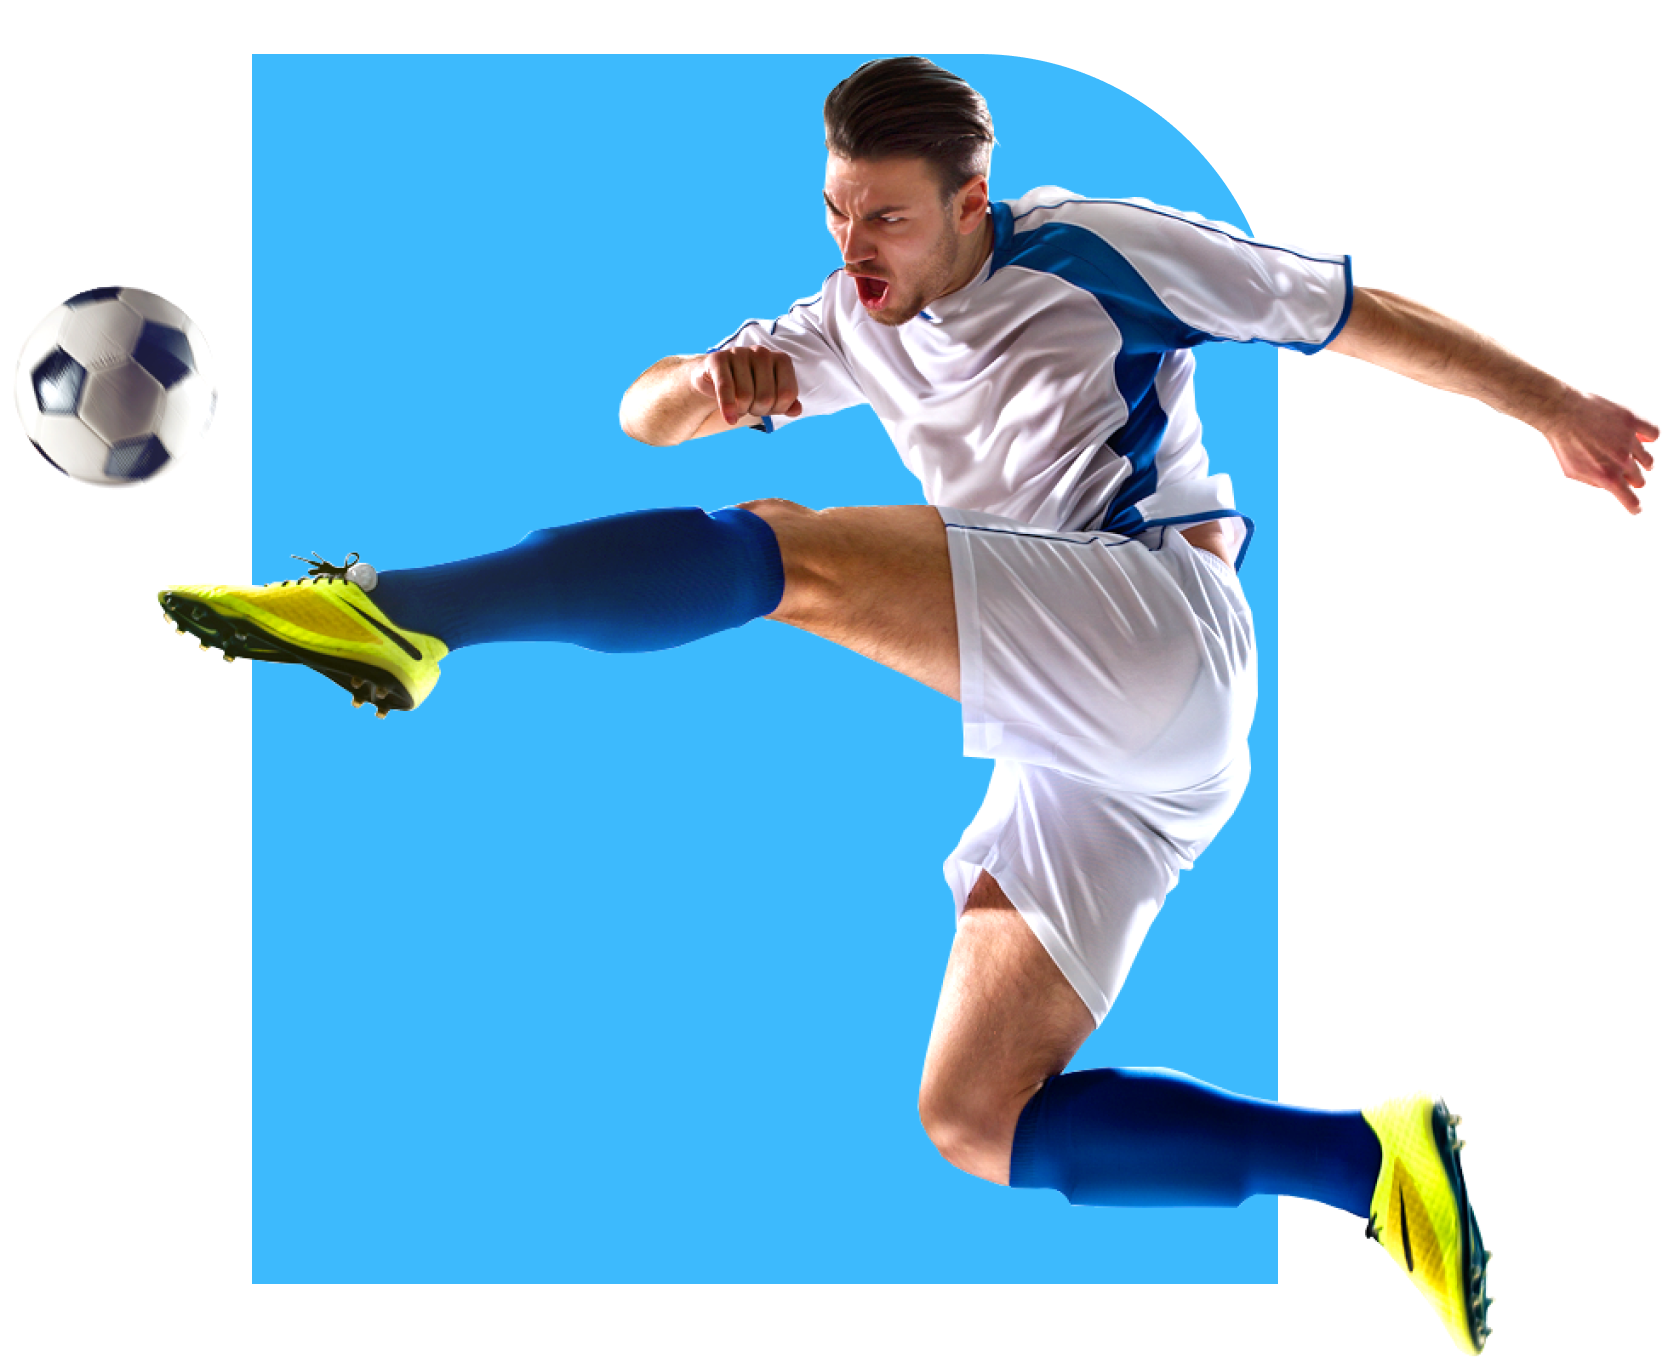
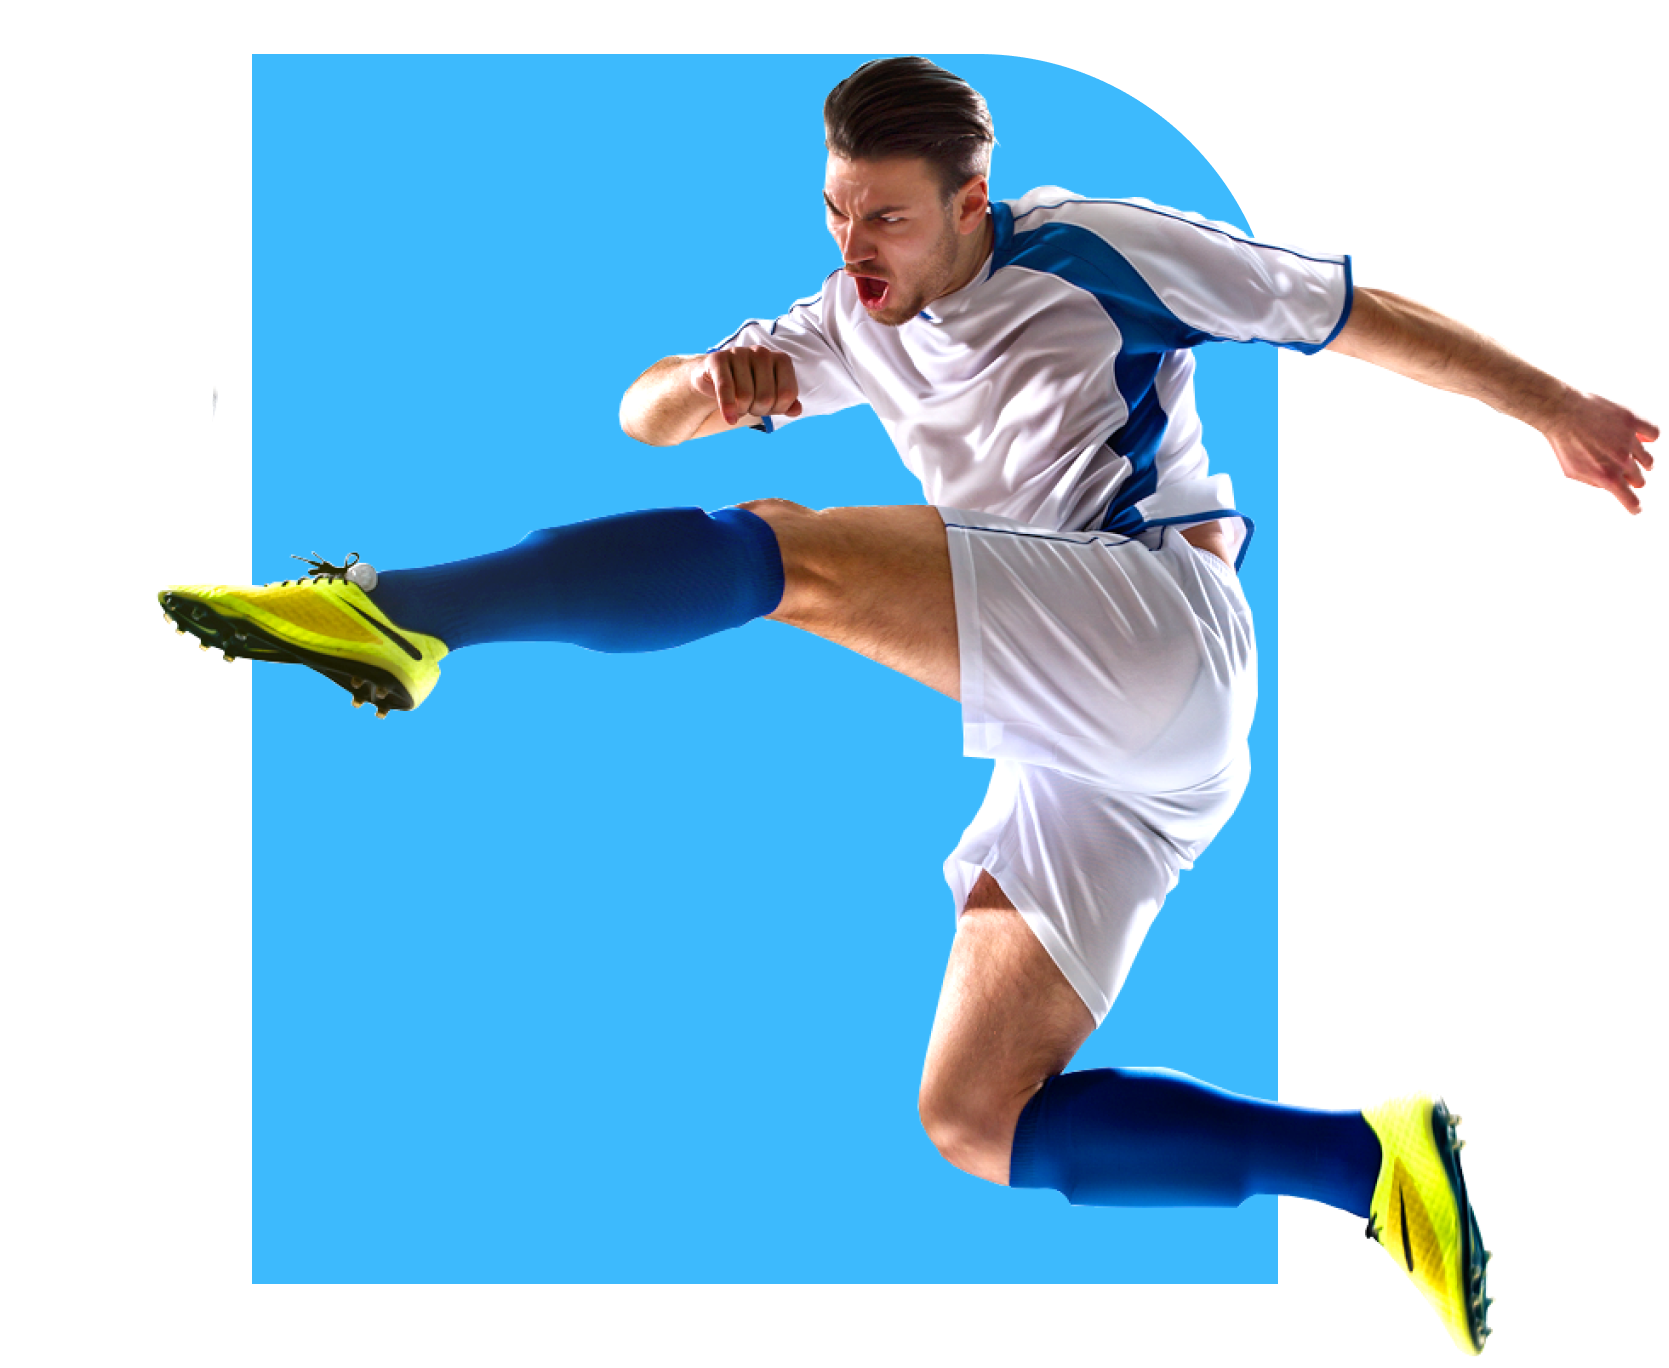
animation added

Changed region(s): [[0.0, 0.1842, 0.1246, 0.3684]]

diff --git a/main.css/style.css b/main.css/style.css
@@ -12,12 +12,11 @@ body{
 /* ............................................../
 ...........header part style started........... */
 header{
-    background-color: #2D25A0;;
+    background-color: #2D25A0;
 }
 .banner{
     display: grid;
     grid-template-columns: repeat(2, 1fr);
-   
 }
 .banner-title h1{
     color: #FFFFFF;
@@ -43,12 +42,30 @@ header{
     padding-left: 8px;
 }
 
-.banner img{
+/* ........................................../
+..............banner img.................. */
+
+.banner:hover .animation .ball img{
+    transform: translate(10px, -350px);
+}
+.banner:hover .animation .player-img img{
+    transform: translateX(40px);
+    }
+.player-img img{
     width: 556.01px;
     height: 438px;
+    border: 50px;
     margin-top: 60px;
     margin-right: 140px;
+    
 }
+.ball img{
+    width: 80px;
+    height: 80px;
+    transform: translate(40px, -300px);
+    
+}
+
 
 /* .........................................................../
 ...................header part style ended.................  */

diff --git a/index.html b/index.html
@@ -25,8 +25,13 @@
                         <i class="fas fa-arrow-right"></i>
                     </div>
                 </div>
-                <div>
-                    <img src="images/banner.png" alt="">
+                <div class="animation">
+                    <div class="player-img">
+                        <img src="images/banner.png" alt="">
+                    </div>
+                    <div class="ball">
+                        <img src="images/ball.png" alt="">
+                    </div>
                 </div>
             </div>
         </section>
